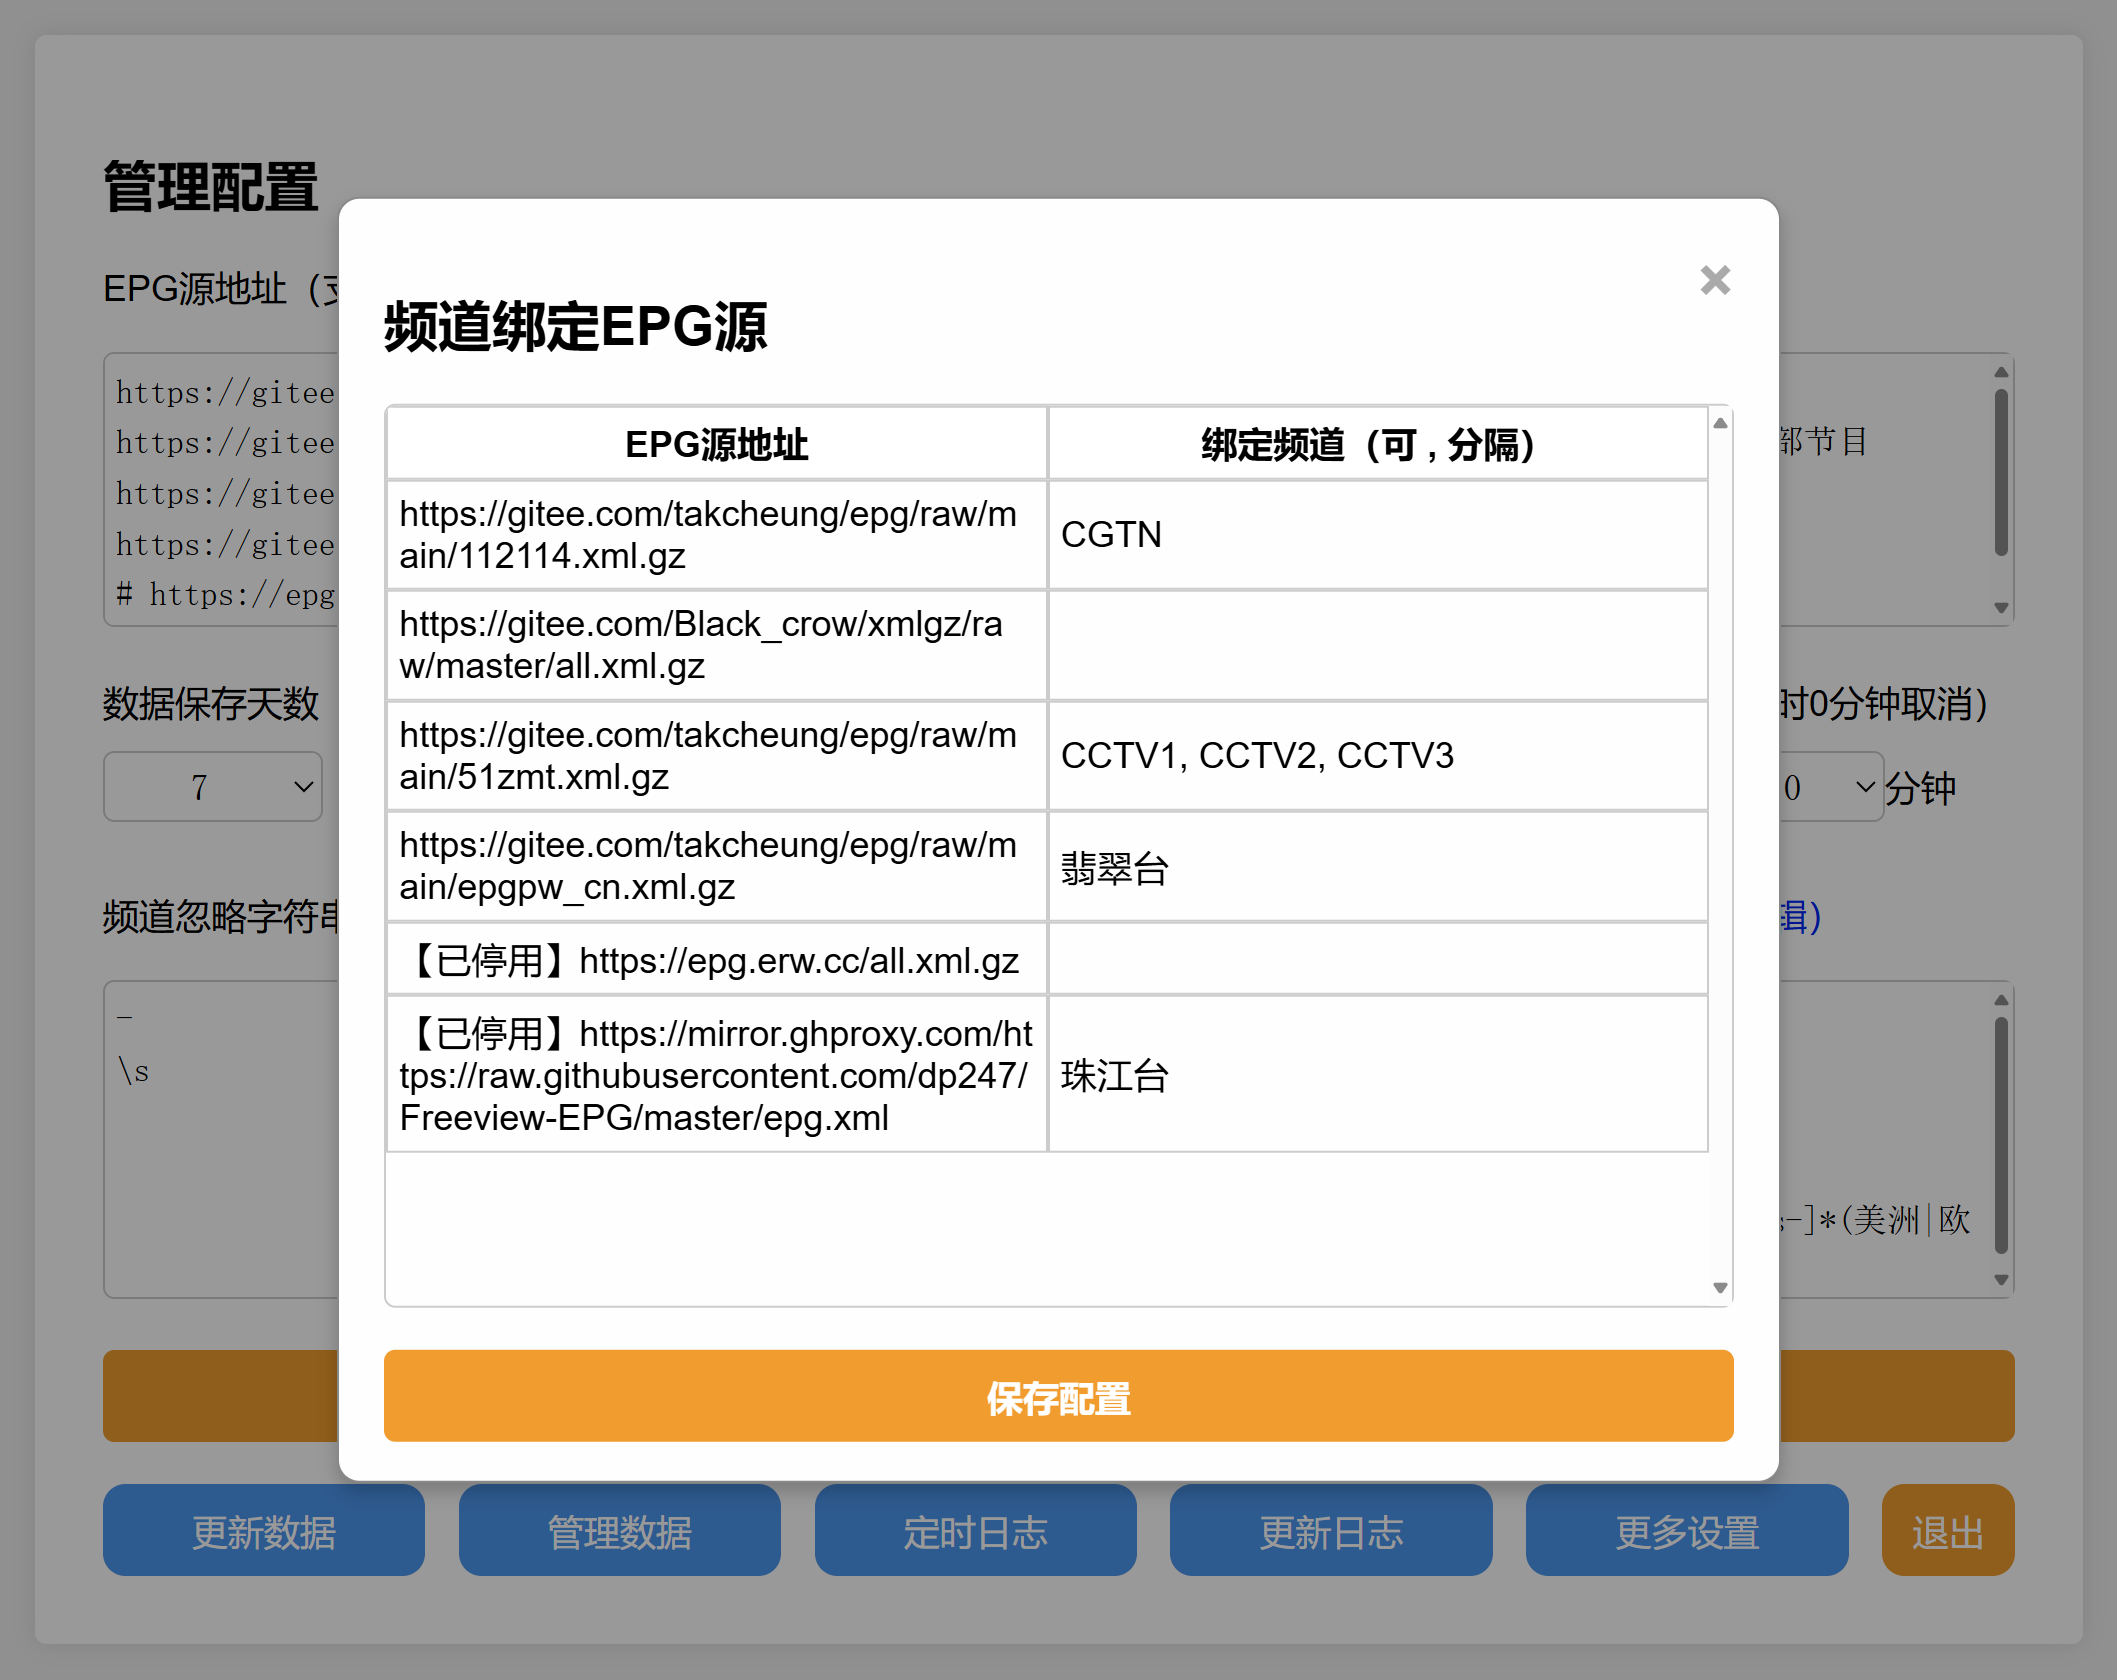
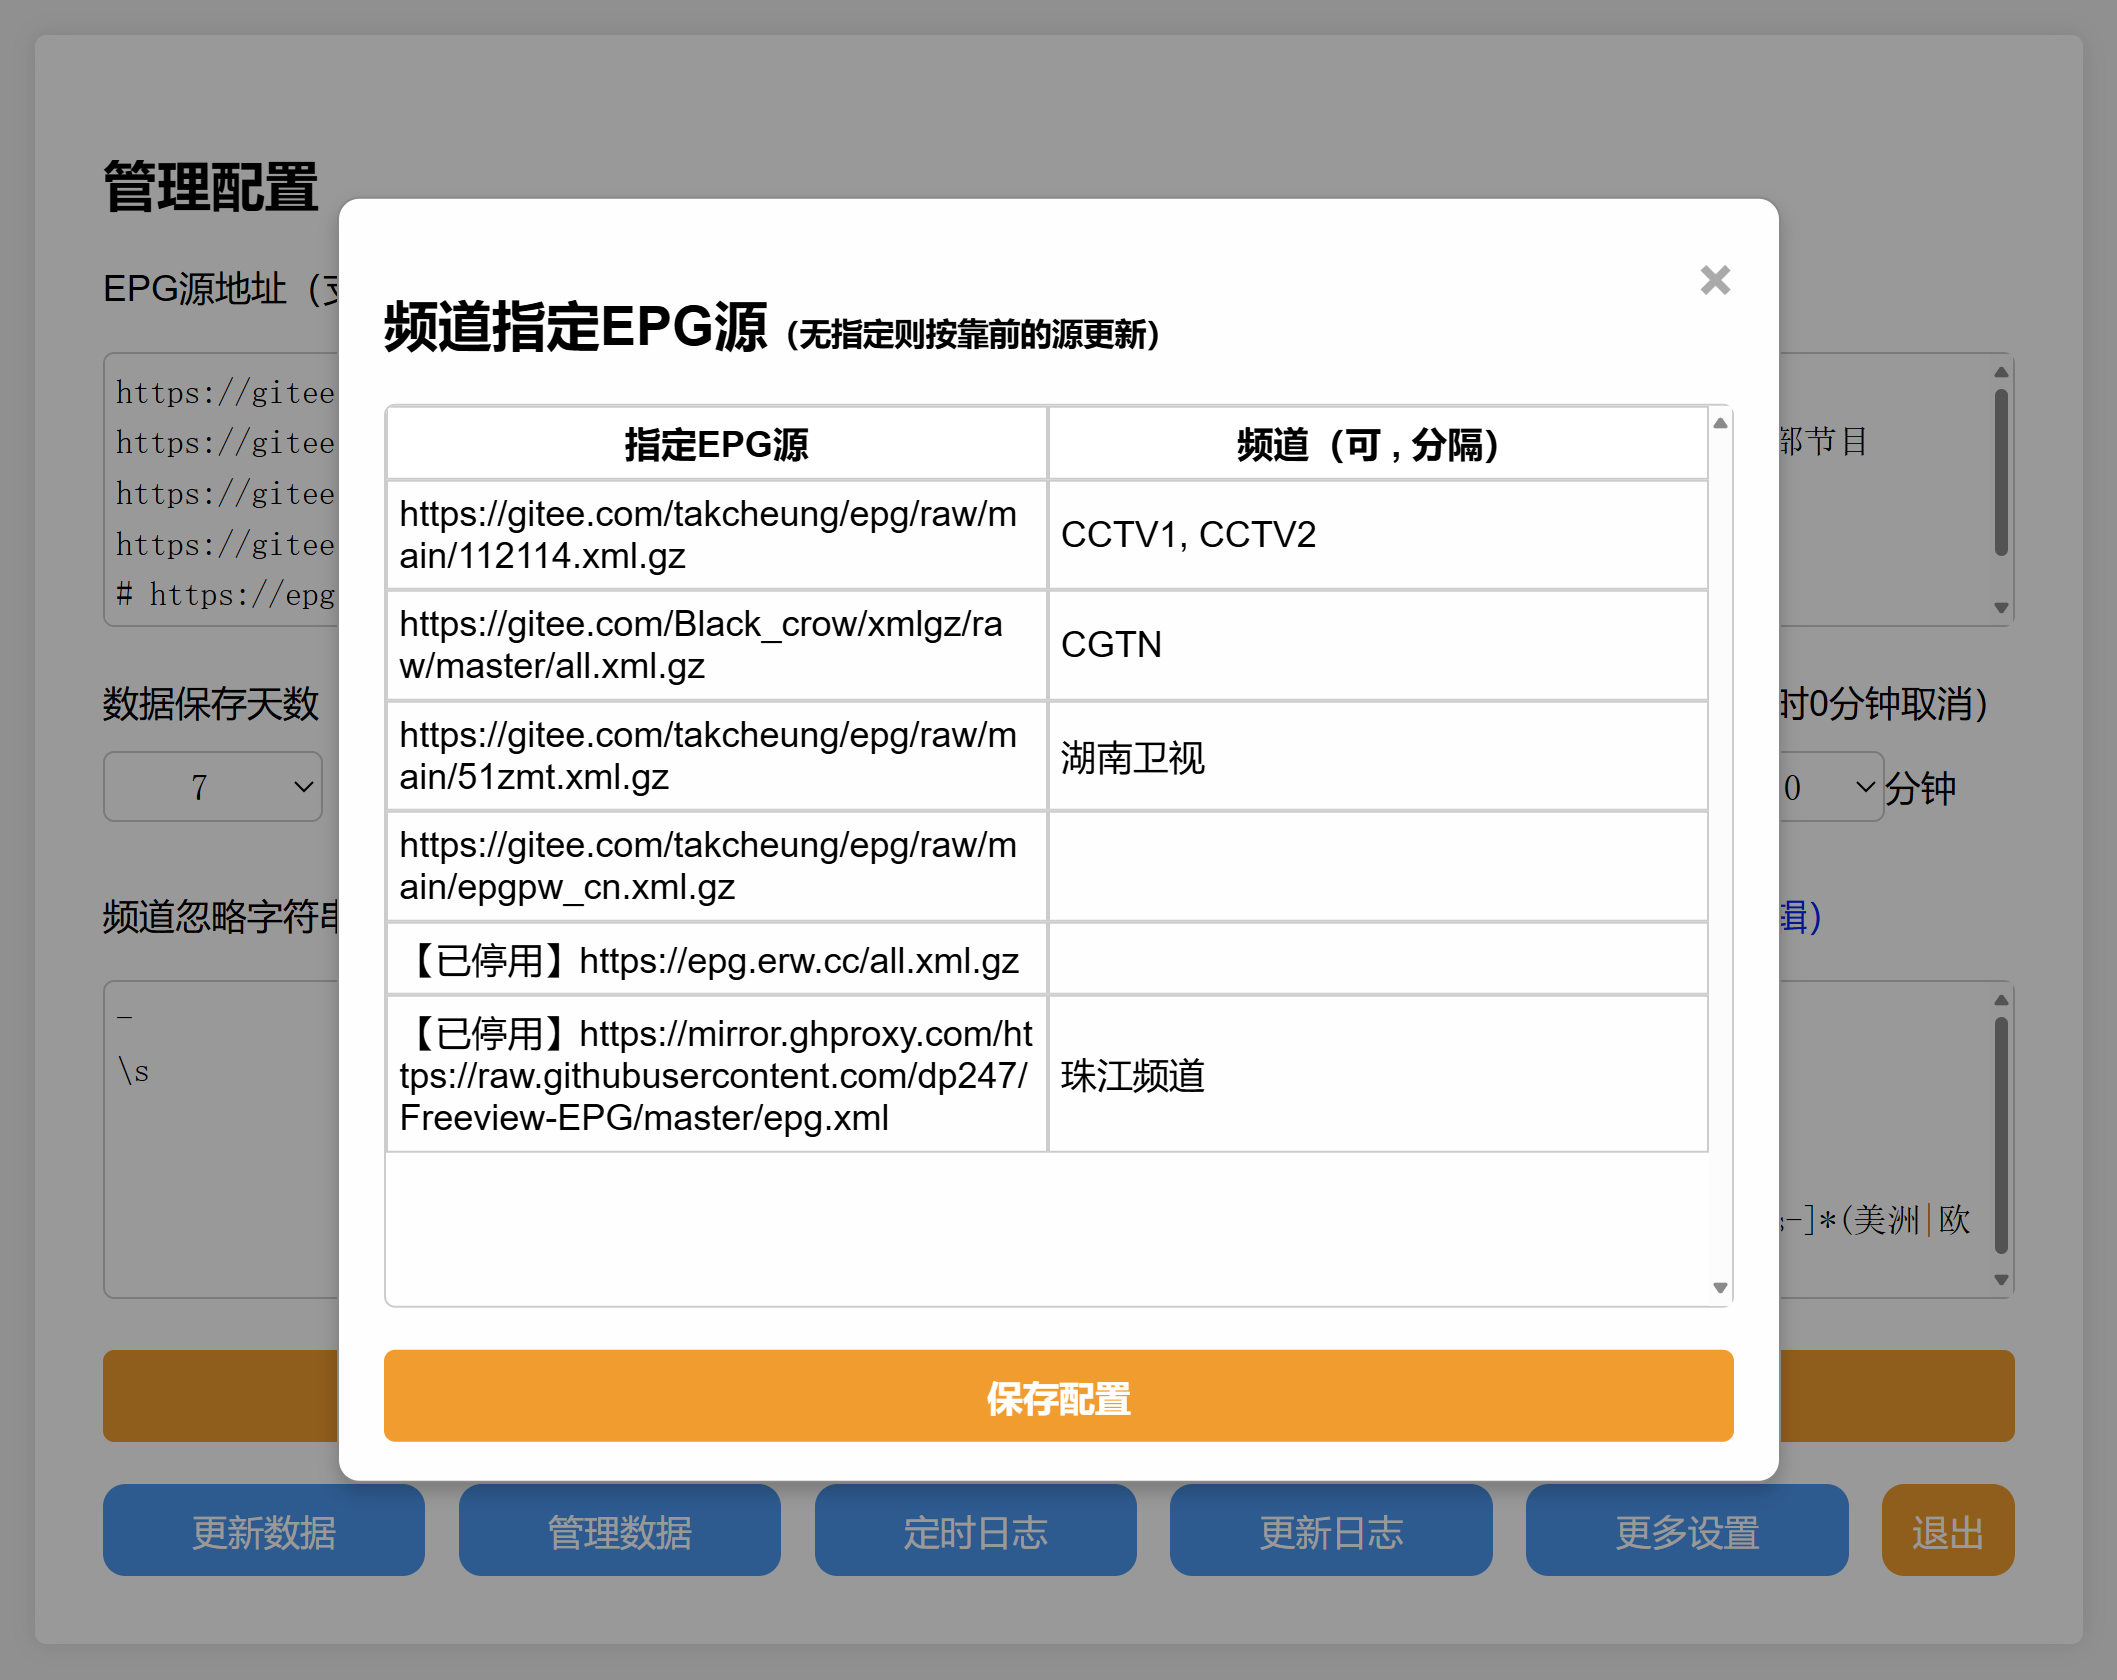
修复：php7.3- 版本兼容性问题

diff --git a/epg/manage.php b/epg/manage.php
@@ -174,11 +174,13 @@ if ($_SERVER['REQUEST_METHOD'] == 'POST' && isset($_POST['update'])) {
         }
     }
 
-    // 处理频道绑定 EPG 数据
+    // 处理频道指定 EPG 数据
     $channel_bind_epg = isset($_POST['channel_bind_epg']) ? 
         array_filter(
             array_column(json_decode($_POST['channel_bind_epg'], true), 'channels', 'epg_src'), 
-            fn($channels) => !empty($channels)
+            function($channels) {
+                return !empty($channels);
+            }
         ) : [];
 
     // 获取旧的配置
@@ -291,7 +293,7 @@ try {
             ];
         }
         
-        // 返回频道绑定 EPG 数据
+        // 返回频道指定 EPG 数据
         elseif (isset($_GET['get_channel_bind_epg'])) {
             // 从数据库中获取频道
             $channels = $db->query("SELECT DISTINCT UPPER(channel) FROM epg_data ORDER BY UPPER(channel) ASC")->fetchAll(PDO::FETCH_COLUMN);
@@ -327,7 +329,9 @@ try {
                         'epg_src' => $cleanEpgSrc,
                         'channels' => $channelBindEpg[$cleanEpgSrc] ?? ''
                     ];
-                }, array_filter($filteredUrls, fn($epgSrc) => strpos(trim($epgSrc), '#') !== 0)),
+                }, array_filter($filteredUrls, function($epgSrc) {
+                    return strpos(trim($epgSrc), '#') !== 0;
+                })),
 
                 array_map(function($epgSrc) use ($channelBindEpg) {
                     $cleanEpgSrc = trim(preg_replace('/^\s*#\s*/', '', $epgSrc));
@@ -335,7 +339,9 @@ try {
                         'epg_src' => '【已停用】' . ltrim($cleanEpgSrc, '#'),
                         'channels' => $channelBindEpg[$cleanEpgSrc] ?? ''
                     ];
-                }, array_filter($filteredUrls, fn($epgSrc) => strpos(trim($epgSrc), '#') === 0))
+                }, array_filter($filteredUrls, function($epgSrc) {
+                    return strpos(trim($epgSrc), '#') === 0;
+                }))
             );
         }
 
@@ -507,7 +513,7 @@ if ($_SERVER['REQUEST_METHOD'] == 'GET' && isset($_GET['url'])) {
     <h2>管理配置</h2>
     <form method="POST" id="settingsForm">
 
-        <label for="xml_urls">EPG源地址（支持 xml 跟 .xml.gz 格式， # 为注释）</label><span id="channelbind" onclick="showModal('channelbindepg')" style="color: blue; cursor: pointer;">（频道绑定EPG源）</span><br><br>
+        <label for="xml_urls">EPG源地址（支持 xml 跟 .xml.gz 格式， # 为注释）</label><span id="channelbind" onclick="showModal('channelbindepg')" style="color: blue; cursor: pointer;">（频道指定EPG源）</span><br><br>
         <textarea placeholder="一行一个，地址前面加 # 可以临时停用，后面加 # 可以备注。快捷键： Ctrl+/  。" id="xml_urls" name="xml_urls" style="height: 122px;"><?php echo implode("\n", array_map('trim', $Config['xml_urls'])); ?></textarea><br><br>
 
         <div class="form-row">
@@ -641,17 +647,17 @@ if ($_SERVER['REQUEST_METHOD'] == 'GET' && isset($_GET['url'])) {
     </div>
 </div>
 
-<!-- 频道绑定EPG模态框 -->
+<!-- 频道指定EPG模态框 -->
 <div id="channelBindEPGModal" class="modal">
     <div class="modal-content channel-bind-epg-modal-content">
         <span class="close">&times;</span>
-        <h2>频道绑定EPG源</h2>
+        <h2>频道指定EPG源<span style="font-size: 14px;">（无指定则按靠前的源更新）</span></h2>
         <div class="table-container" id="channel-bind-epg-table-container">
             <table id="channelBindEPGTable">
                 <thead style="position: sticky; top: 0; background-color: white;">
                     <tr>
-                        <th>EPG源地址</th>
-                        <th>绑定频道（可 , 分隔）</th>
+                        <th>指定EPG源</th>
+                        <th>频道（可 , 分隔）</th>
                     </tr>
                 </thead>
                 <tbody>

diff --git a/epg/update.php b/epg/update.php
@@ -135,7 +135,7 @@ function getGenList($db) {
     ];
 }
 
-// 获取频道绑定 EPG 关系
+// 获取频道指定 EPG 关系
 function getChannelBindEPG() {
     global $Config;
     $channelBindEPG = [];
@@ -422,7 +422,7 @@ $gen_res = getGenList($db);
 $gen_list = $gen_res['gen_list'];
 $gen_list_mapping = $gen_res['gen_list_mapping'];
 
-// 获取频道绑定 EPG 关系
+// 获取频道指定 EPG 关系
 $channel_bind_epg = getChannelBindEPG();
 
 // 全局变量，用于记录已处理的记录
